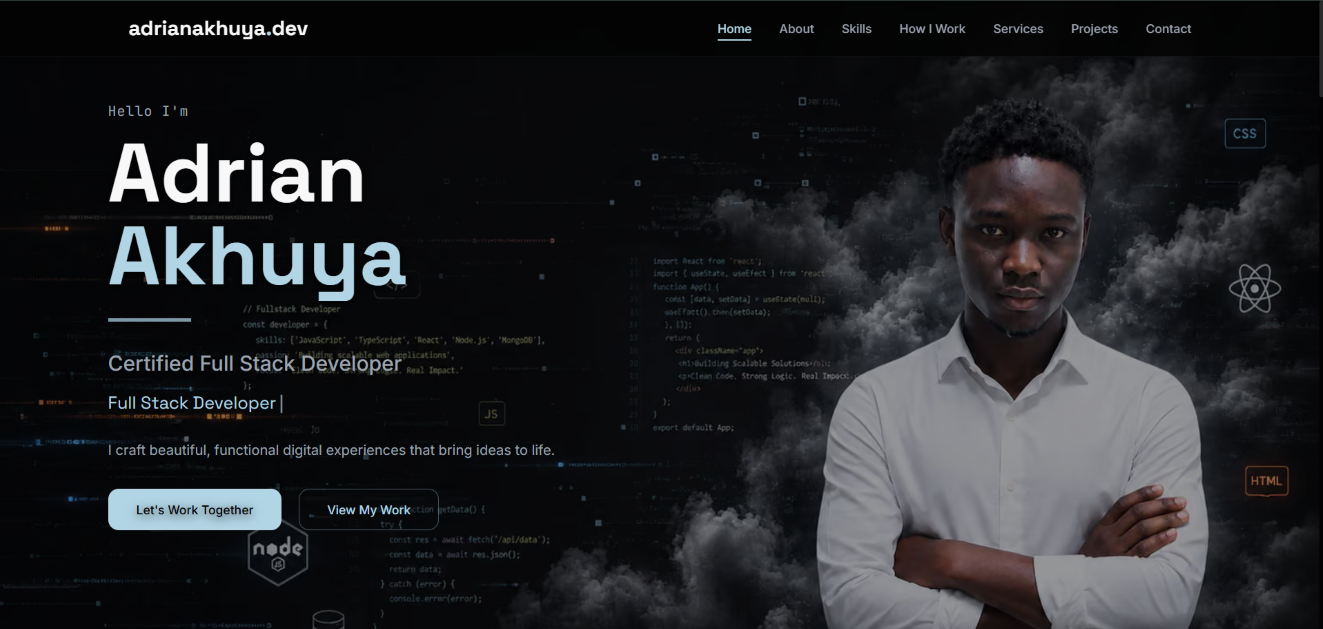
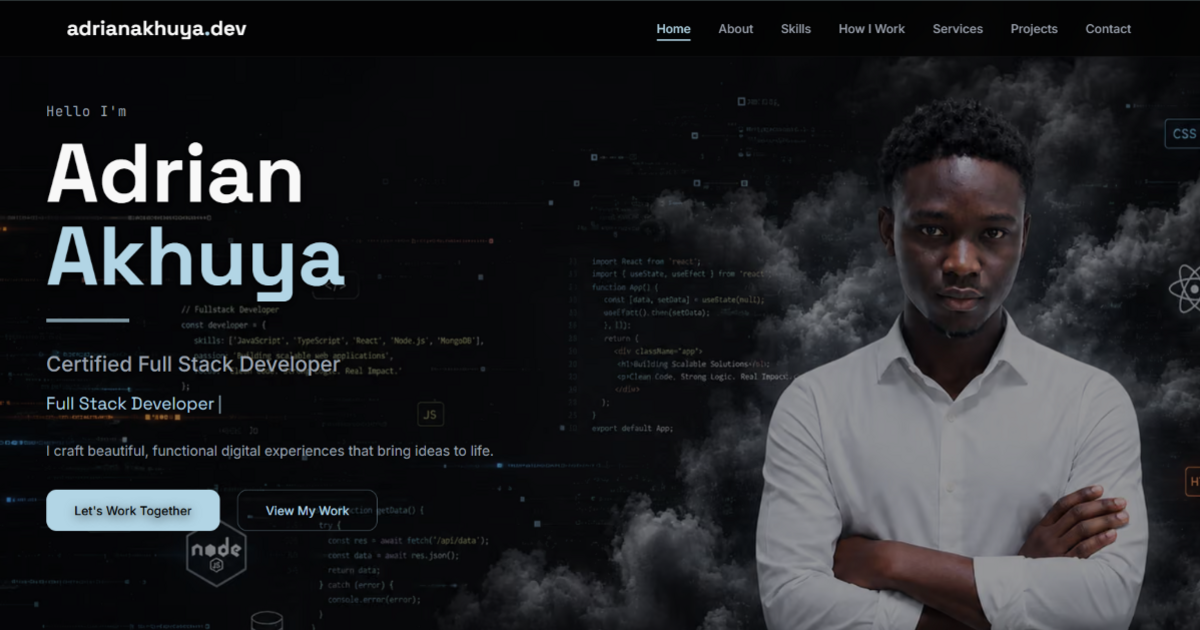
Fix OG image dimensions and add author metadata

diff --git a/src/app/layout.tsx b/src/app/layout.tsx
@@ -7,15 +7,20 @@ import MouseGlow from "@/components/ui/MouseGlow";
 import PageClient from "@/components/PageClient";
 import BackToTop from "@/components/ui/BackToTop";
 
+const description = "I build software that turns ideas into things people can actually use. As a full-stack developer, I work across the stack to create clean, reliable, and practical applications. I enjoy simplifying complex problems, learning new things, and building products that make a difference.";
+
 export const metadata: Metadata = {
   title: "Adrian Akhuya — Full Stack Developer | Modern Web, Backend & Mobile",
-  description: "I'm Adrian Akhuya, a full-stack developer who builds software that turns ideas into things people can actually use. Specializing in Next.js, TypeScript, Python, FastAPI, PostgreSQL, and Flutter for modern web, backend, and mobile experiences.",
+  description,
   icons: {
     icon: "/favicon.svg",
   },
+  authors: [{ name: "Adrian Akhuya", url: "https://www.adrianakhuya.dev" }],
+  creator: "Adrian Akhuya",
+  publisher: "Adrian Akhuya",
   openGraph: {
     title: "Adrian Akhuya — Full Stack Developer | Modern Web, Backend & Mobile",
-    description: "I'm Adrian Akhuya, a full-stack developer who builds software that turns ideas into things people can actually use. Specializing in Next.js, TypeScript, Python, FastAPI, PostgreSQL, and Flutter.",
+    description,
     url: "https://www.adrianakhuya.dev",
     siteName: "adrianakhuya.dev",
     images: [
@@ -26,14 +31,23 @@ export const metadata: Metadata = {
         alt: "Adrian Akhuya — Full Stack Developer Portfolio",
       },
     ],
-    type: "website",
+    type: "profile",
     locale: "en_US",
+    firstName: "Adrian",
+    lastName: "Akhuya",
+    username: "aakhuya",
   },
   twitter: {
     card: "summary_large_image",
     title: "Adrian Akhuya — Full Stack Developer | Modern Web, Backend & Mobile",
-    description: "I'm Adrian Akhuya, a full-stack developer who builds software that turns ideas into things people can actually use.",
+    description,
     images: ["https://www.adrianakhuya.dev/images/og-image.png"],
+    creator: "@aakhuya",
+  },
+  other: {
+    "article:author": "https://www.linkedin.com/in/adrian-akhuya-b0326126b",
+    "article:published_time": new Date().toISOString(),
+    "og:updated_time": new Date().toISOString(),
   },
 };
 
